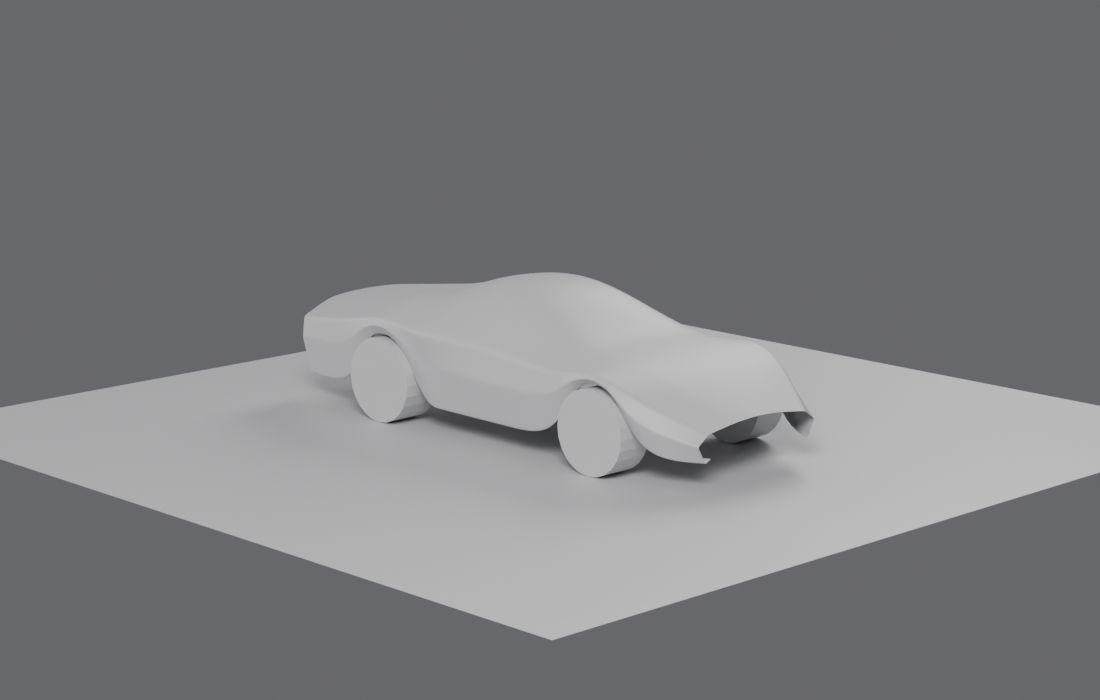
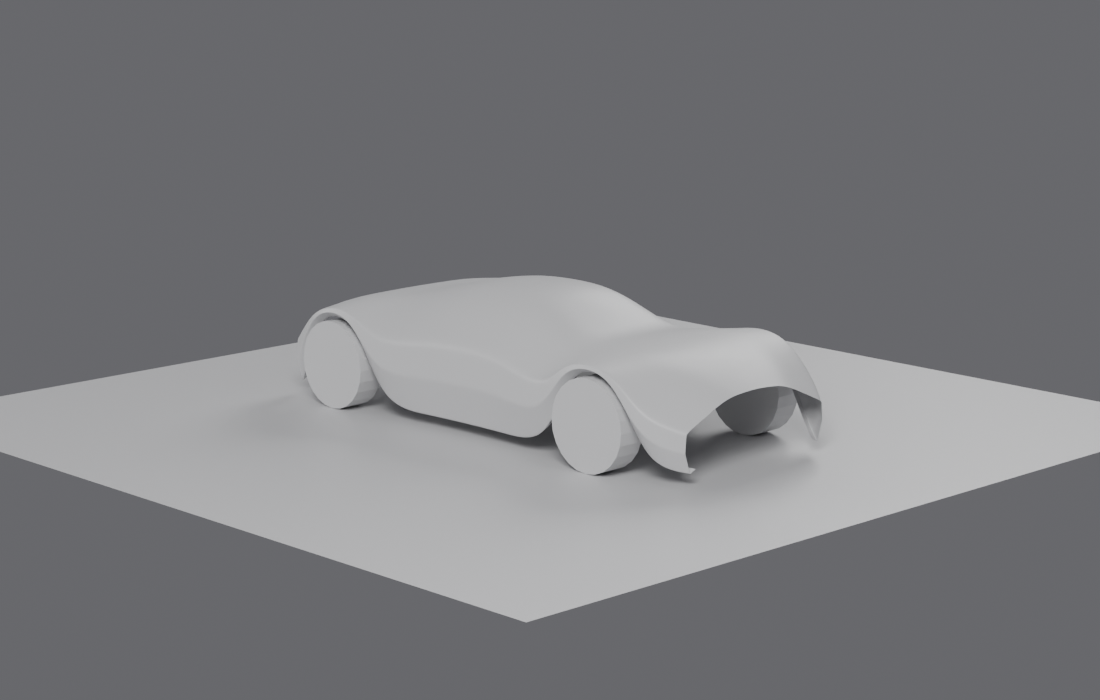
Rebuild the body from proportions measured off the reference file
Replaces the remapped envelope with one sampled directly from
Concept_Model_WIP4.blend. Length 4027mm against 4026 measured, wheelbase
2702mm, width 1797 against 1802. The previous envelope was 493mm too long,
161mm too tall, and carried a rear overhang more than double the real one.

Two of the corrections were design assumptions rather than numbers. The canopy
crowns at the middle of the wheelbase, not ahead of it, so the silhouette is
not cab-forward. And the body pinches in through the cabin while bulging at
both arches, instead of running at near-constant width.

Ring heights are now fractions of the span between the top surface and the
sill rather than fixed values. Fixed heights fold the cage wherever the sill
lifts into an arch, which is exactly what happened on the first remap attempt:
the body scaled down while the wheels did not, and the arch crown ended up
above the hood centreline at eight stations.

Adds tools/dump_creases.py, to be run inside their Blender. Files written by a
newer Blender lose crease values when read here — the attribute survives but
holds no data — while topology, modifiers and proportions read fine.

Claude-Session: https://claude.ai/code/session_01Xx3q3FEn98y7dLvRCxTUeL

diff --git a/models/car_blockout.py b/models/car_blockout.py
@@ -22,29 +22,34 @@ import bpy
 from . import vehicle_cage
 
 PROPORTIONS = {
-    "wheelbase":        2.450,
-    "front_overhang":   0.880,
-    "rear_overhang":    1.189,
-    "half_width":       0.926,
+    # Measured off Concept_Model_WIP4.blend rather than chosen. The earlier
+    # "roughly the Porsche dimensions" envelope was 4519mm long; the actual
+    # working model is 4026mm, on a longer 2702mm wheelbase with much shorter
+    # overhangs and a far lower roof.
+    "wheelbase":        2.702,
+    "front_overhang":   0.732,
+    "rear_overhang":    0.593,
+    "half_width":       0.901,
 
-    "wheel_r_front":    0.340,
-    "wheel_r_rear":     0.355,
-    "wheel_w_front":    0.300,
-    "wheel_w_rear":     0.340,
-    "track_half_front": 0.775,
-    "track_half_rear":  0.755,
+    "wheel_r_front":    0.3335,
+    "wheel_r_rear":     0.3335,
+    "wheel_w_front":    0.208,
+    "wheel_w_rear":     0.208,
+    # Wheel outer face lands flush with the widest point of the body.
+    "track_half_front": 0.797,
+    "track_half_rear":  0.797,
 
-    "sill":             0.20,
-    "arch_front":       (0.46, 0.53),   # half-width along X, height above sill
-    "arch_rear":        (0.46, 0.56),
+    "sill":             0.091,
+    "arch_front":       (0.500, 0.629),  # half-width along X, height above sill
+    "arch_rear":        (0.500, 0.629),
 
     # The fender turning inboard into the wheel well, so the arch has thickness
     # rather than ending on a bare edge.
-    "lip_inboard":      0.060,
-    "lip_rise":         0.030,
+    "lip_inboard":      0.055,
+    "lip_rise":         0.027,
 
     "subdiv_viewport":  2,
-    "subdiv_render":    4,
+    "subdiv_render":    5,
 }
 
 # Ring order down the side, and how hard each is creased. The outline — the
@@ -64,38 +69,40 @@ CREASES = {
 }
 
 
-def _S(x, top, edge, shoulder, character, w_sill):
-    return {"x": x, "top_centre": (0.0, top), "top_edge": edge,
-            "shoulder": shoulder, "character": character, "w_sill": w_sill}
-
-
-# x, top-centre height, then (half-width, height) per line. Sill and lip
-# heights are computed from the arch, so the sill gives only its width.
+# Body profile measured off Concept_Model_WIP4.blend, not invented:
+# x, top-surface height at the centreline, half-width of the top-surface edge,
+# and half-width at the widest point. Axles sit at +/-1.351.
 #
-# Stations only exist where they change the form. Three more were tried and
-# removed — at x = 1.900, 0.500 and -2.050 — because dropping them left length,
-# height and both arch clearances identical to the millimetre. The station at
-# x = -0.250 looks equally redundant but is not: it carries the canopy crown,
-# and without it overall height drops by 38mm.
-STATIONS = [
-    _S( 2.105, 0.48, (0.26, 0.46),  (0.55, 0.42),  (0.66, 0.34),  0.58),
-    _S( 1.685, 0.72, (0.46, 0.70),  (0.82, 0.62),  (0.91, 0.46),  0.84),
-    _S( 1.455, 0.79, (0.50, 0.775), (0.88, 0.745), (0.925, 0.715), 0.86),
-    _S( 1.225, 0.84, (0.52, 0.830), (0.89, 0.805), (0.926, 0.775), 0.86),
-    _S( 0.995, 0.88, (0.54, 0.860), (0.90, 0.780), (0.926, 0.710), 0.86),
-    _S( 0.765, 0.92, (0.56, 0.90),  (0.91, 0.74),  (0.926, 0.52), 0.85),
-    _S( 0.200, 1.22, (0.46, 1.16),  (0.88, 0.80),  (0.910, 0.54), 0.83),
-    _S(-0.250, 1.27, (0.48, 1.21),  (0.90, 0.82),  (0.920, 0.55), 0.83),
-    # Character line pulled inboard of the shoulder here and at the next
-    # station — the side undercutting, which is what makes the scoop read.
-    _S(-0.600, 1.22, (0.50, 1.16),  (0.91, 0.82),  (0.880, 0.56), 0.82),
-    _S(-0.765, 1.16, (0.52, 1.10),  (0.92, 0.82),  (0.850, 0.56), 0.82),
-    _S(-0.995, 1.08, (0.54, 1.02),  (0.90, 0.860), (0.925, 0.760), 0.87),
-    _S(-1.225, 1.05, (0.56, 1.00),  (0.90, 0.885), (0.925, 0.830), 0.87),
-    _S(-1.455, 0.99, (0.55, 0.95),  (0.90, 0.850), (0.925, 0.770), 0.87),
-    _S(-1.685, 0.95, (0.53, 0.92),  (0.88, 0.80),  (0.900, 0.56), 0.82),
-    _S(-2.414, 0.86, (0.44, 0.83),  (0.74, 0.70),  (0.760, 0.52), 0.68),
+# Two things here were assumptions of mine that the file corrected. The canopy
+# crowns at x = 0.00, the exact middle of the wheelbase, not forward of it. And
+# the body pinches in through the cabin (0.824) while bulging at both arches
+# (0.90), rather than running at near-constant width.
+PROFILE = [
+    ( 2.083, 0.579, 0.300, 0.700),
+    ( 1.850, 0.713, 0.430, 0.898),
+    ( 1.600, 0.785, 0.470, 0.893),
+    ( 1.351, 0.799, 0.490, 0.893),
+    ( 1.100, 0.800, 0.495, 0.894),
+    ( 0.850, 0.786, 0.480, 0.855),
+    ( 0.400, 1.051, 0.410, 0.825),
+    ( 0.000, 1.063, 0.420, 0.824),
+    (-0.400, 1.042, 0.430, 0.841),
+    (-0.850, 0.920, 0.470, 0.896),
+    (-1.100, 0.849, 0.500, 0.901),
+    (-1.351, 0.833, 0.505, 0.899),
+    (-1.600, 0.762, 0.490, 0.888),
+    (-1.944, 0.680, 0.410, 0.760),
 ]
+
+# Where the remaining lines sit between the top surface and the sill, as a
+# fraction of the height available at that station. Fractions rather than
+# absolute heights, so the lines stay clear of the arch automatically wherever
+# the sill lifts — which is what folded the cage when the heights were fixed.
+SHOULDER_F, CHARACTER_F, TOP_EDGE_F = 0.58, 0.30, 0.06
+SHOULDER_W, SILL_W = 0.985, 0.930
+
+STATIONS = [{"x": x, "top_z": tz, "edge_w": ew, "wide_w": ww}
+            for x, tz, ew, ww in PROFILE]
 
 
 def _axles(p):
@@ -117,14 +124,15 @@ def station_rings(row, p=None):
     """The (y, z) control points for one station, outboard side."""
     p = p or PROPORTIONS
     sill_z = sill_height(row["x"], p)
-    w = row["w_sill"]
+    top_z, wide = row["top_z"], row["wide_w"]
+    span = max(top_z - sill_z, 1e-4)
     return [
-        row["top_centre"],
-        (-row["top_edge"][0],  row["top_edge"][1]),
-        (-row["shoulder"][0],  row["shoulder"][1]),
-        (-row["character"][0], row["character"][1]),
-        (-w, sill_z),
-        (-(w - p["lip_inboard"]), sill_z + p["lip_rise"]),
+        (0.0, top_z),
+        (-row["edge_w"],       top_z - span * TOP_EDGE_F),
+        (-wide * SHOULDER_W,   sill_z + span * SHOULDER_F),
+        (-wide,                sill_z + span * CHARACTER_F),
+        (-wide * SILL_W,       sill_z),
+        (-(wide * SILL_W - p["lip_inboard"]), sill_z + p["lip_rise"]),
     ]
 
 

diff --git a/tools/dump_creases.py b/tools/dump_creases.py
@@ -1,0 +1,25 @@
+"""Print edge crease and bevel-weight values. Run inside Blender.
+
+Needed because a .blend written by a newer Blender than the one reading it
+loses these values: the attribute survives, its data does not. Everything else
+— topology, modifiers, proportions — reads fine.
+
+Blender: Scripting tab, paste, Run. Then paste the output back.
+"""
+
+import bpy
+from collections import Counter
+
+for ob in [o for o in bpy.data.objects if o.type == 'MESH']:
+    me = ob.data
+    for attr in ("crease_edge", "bevel_weight_edge"):
+        layer = me.attributes.get(attr)
+        if not layer or not len(layer.data):
+            continue
+        nonzero = [d.value for d in layer.data if d.value > 1e-6]
+        if not nonzero:
+            continue
+        tally = Counter(round(v, 2) for v in nonzero)
+        print(f"{ob.name} / {attr}: {len(nonzero)}/{len(layer.data)} edges")
+        for value, count in sorted(tally.items(), reverse=True):
+            print(f"    {value:.2f} -> {count} edges")
